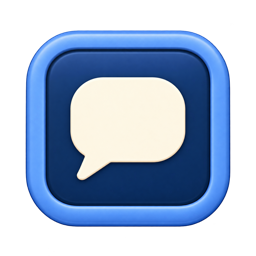
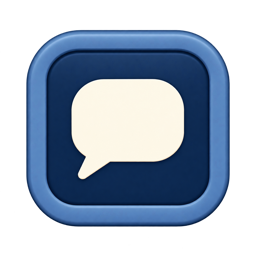
style(input): balance mode artwork and anchor pane targets
Use quieter satin mode assets, shared control spacing and a textarea height matching the reserved input slot. Position pane targets beside their control and above the actual multiline input height.

Verify input, asset, agent composer and workspace tests on macOS; inspect Flexoki Light and Dark previews. Windows and Linux runtime validation remains unavailable.

diff --git a/crates/con-app/src/input_bar.rs b/crates/con-app/src/input_bar.rs
@@ -97,7 +97,7 @@ impl InputMode {
     fn icon(self) -> &'static str {
         match self {
             Self::Smart => "input-mode-smart.png",
-            Self::Shell => "tab-terminal-refined.png",
+            Self::Shell => "input-mode-shell.png",
             Self::Agent => "input-mode-agent.png",
         }
     }
@@ -266,7 +266,7 @@ impl InputBar {
 
     fn pane_scope_summary(&self) -> (String, &'static str) {
         match self.pane_scope_mode {
-            PaneScopeMode::Broadcast => ("All panes".to_string(), "phosphor/squares-four.svg"),
+            PaneScopeMode::Broadcast => ("All panes".to_string(), "phosphor/broadcast-duotone.svg"),
             PaneScopeMode::Focused => ("Focused".to_string(), "phosphor/target.svg"),
             PaneScopeMode::Custom => {
                 let targets = self.effective_target_ids();
@@ -1233,8 +1233,8 @@ impl Render for InputBar {
         let input_value = input_state.read(cx).value().to_string();
         let input_cursor = input_state.read(cx).cursor();
         let mono_scale = mono_density_scale(theme);
-        let control_size = mono_space_px(theme, 28.0);
-        let mode_icon_size = mono_space_px(theme, 24.0);
+        let control_size = mono_space_px(theme, crate::input_chrome::CONTROL_SIZE);
+        let mode_icon_size = mono_space_px(theme, 22.0);
         let compact_icon_size = mono_space_px(theme, 14.0);
 
         // ── Mode prefix — icon-only, minimal ──
@@ -1275,7 +1275,7 @@ impl Render for InputBar {
             let scope_tint = if scope_is_expanded {
                 theme.primary
             } else {
-                theme.foreground.blend(theme.background.opacity(0.28))
+                theme.muted_foreground
             };
             Some(
                 div()
@@ -1326,7 +1326,7 @@ impl Render for InputBar {
                                     .line_height(mono_px(theme, 14.0))
                                     .font_family(theme.font_family.clone())
                                     .font_weight(FontWeight::MEDIUM)
-                                    .text_color(scope_tint)
+                                    .text_color(theme.foreground)
                                     .max_w(px(128.0 * mono_scale))
                                     .overflow_hidden()
                                     .whitespace_nowrap()
@@ -1589,6 +1589,8 @@ impl Render for InputBar {
                 div().relative().top(input_vertical_offset).child(
                     Textarea::new(&input_state)
                         .appearance(false)
+                        // Match the workspace slot instead of the editor's default minimum.
+                        .h(self.rendered_height(cx) - px(12.0 * mono_scale))
                         .font_family(input_font)
                         .text_color(if hide_native_command_text {
                             gpui::transparent_black()
@@ -1616,12 +1618,13 @@ impl Render for InputBar {
             // ── Flat container ──
             .child(
                 div()
-                    .px(px(12.0 * mono_scale))
+                    .debug_selector(|| "command-input-row".into())
+                    .px(px(crate::input_chrome::BAR_INSET * mono_scale))
                     .py(px(6.0 * mono_scale))
                     .min_h(px(44.0 * mono_scale))
                     .flex()
                     .items_center()
-                    .gap(px(9.0 * mono_scale))
+                    .gap(px(crate::input_chrome::CONTROL_GAP * mono_scale))
                     .child(mode_prefix)
                     .children(pane_row)
                     .child(div().flex_1().min_w_0().child(input_field))
@@ -1811,6 +1814,14 @@ mod tests {
                     let mode_toggle = view
                         .debug_bounds("command-mode-toggle")
                         .expect("mode toggle");
+                    let row = view.debug_bounds("command-input-row").unwrap();
+                    let leading_inset = mode_toggle.left() - row.left();
+                    let bottom_inset = row.bottom() - mode_toggle.bottom();
+                    assert!(
+                        (leading_inset - bottom_inset).abs() <= px(1.0),
+                        "{mode:?}, cached={cached}: row={row:?}, mode={mode_toggle:?}, leading={leading_inset:?}, bottom={bottom_inset:?}"
+                    );
+                    assert_eq!(mode_toggle.center().y, send.center().y);
                     match mode_row_top[cache_index] {
                         Some(top) => {
                             assert_eq!(mode_toggle.top(), top, "{mode:?}, cached={cached}")

diff --git a/crates/con-app/src/workspace/render/popups.rs b/crates/con-app/src/workspace/render/popups.rs
@@ -1,5 +1,63 @@
 use super::super::*;
 
+#[cfg(test)]
+mod tests {
+    use super::pane_scope_popup_geometry;
+    use gpui::px;
+
+    #[test]
+    fn pane_targets_follow_control_and_multiline_height() {
+        let (left, width, bottom) = pane_scope_popup_geometry(230.0, 800.0, 44.0, 1.0, 1.0);
+        assert_eq!((left, width, bottom), (px(274.0), px(320.0), px(54.0)));
+        assert_eq!(
+            pane_scope_popup_geometry(230.0, 800.0, 84.0, 1.0, 1.0).2,
+            px(94.0)
+        );
+    }
+
+    #[test]
+    fn pane_targets_fit_terminal_gutters_at_scaled_and_narrow_widths() {
+        for scale in [1.0, 1.5] {
+            for terminal_left in [0.0, 230.0] {
+                for terminal_width in [240.0, 420.0, 1100.0] {
+                    let (left, width, bottom) = pane_scope_popup_geometry(
+                        terminal_left,
+                        terminal_width,
+                        84.0 * scale,
+                        0.5,
+                        scale,
+                    );
+                    assert!(left >= px(terminal_left + 12.0 * scale));
+                    assert!(left + width <= px(terminal_left + terminal_width - 12.0 * scale));
+                    assert_eq!(bottom, px(52.0 * scale));
+                }
+            }
+        }
+    }
+}
+
+fn pane_scope_popup_geometry(
+    terminal_left: f32,
+    terminal_width: f32,
+    input_height: f32,
+    progress: f32,
+    scale: f32,
+) -> (Pixels, Pixels, Pixels) {
+    let inset = 12.0 * scale;
+    let width = (terminal_width * 0.38)
+        .clamp(320.0 * scale, 440.0 * scale)
+        .min((terminal_width - 2.0 * inset).max(0.0));
+    let anchor = (crate::input_chrome::BAR_INSET
+        + crate::input_chrome::CONTROL_SIZE
+        + crate::input_chrome::CONTROL_GAP)
+        * scale;
+    let left = (terminal_left + anchor)
+        .min(terminal_left + terminal_width - width - inset)
+        .max(terminal_left + inset);
+    let bottom = input_height * progress.clamp(0.0, 1.0) + 10.0 * scale;
+    (px(left), px(width), px(bottom))
+}
+
 impl ConWorkspace {
     pub(super) fn render_skill_popup(
         &self,
@@ -206,11 +264,13 @@ impl ConWorkspace {
                     .enumerate()
                     .map(|(ix, pane)| (pane.id, ix))
                     .collect();
-                let popup_available_width = (terminal_content_width - 48.0).max(300.0);
-                let popup_width = px((terminal_content_width * 0.38)
-                    .clamp(320.0, 440.0)
-                    .min(popup_available_width));
-                let popup_bottom = px(62.0 + (43.0 * input_bar_progress.max(0.01)));
+                let (popup_left, popup_width, popup_bottom) = pane_scope_popup_geometry(
+                    terminal_content_left,
+                    terminal_content_width,
+                    self.input_bar.read(cx).rendered_height(cx).as_f32(),
+                    input_bar_progress,
+                    crate::ui_scale::mono_density_scale(cx.theme()),
+                );
                 let preview_content = self.render_scope_node(
                     &layout,
                     &pane_map,
@@ -378,7 +438,7 @@ impl ConWorkspace {
                             .child(
                                 preset_segment(
                                     "scope-all",
-                                    "phosphor/squares-four.svg",
+                                    "phosphor/broadcast-duotone.svg",
                                     "All panes",
                                     is_broadcast,
                                 )
@@ -435,7 +495,7 @@ impl ConWorkspace {
                     div()
                         .debug_selector(|| "pane-scope-popup".into())
                         .absolute()
-                        .left(px(terminal_content_left + 20.0))
+                        .left(popup_left)
                         .bottom(popup_bottom)
                         .w(popup_width)
                         .rounded(px(12.0))

diff --git a/crates/con-app/src/input_chrome.rs b/crates/con-app/src/input_chrome.rs
@@ -4,6 +4,10 @@ use gpui_component::{Disableable, Theme};
 
 use crate::ui_scale::mono_space_px;
 
+pub(crate) const BAR_INSET: f32 = 8.0;
+pub(crate) const CONTROL_SIZE: f32 = 28.0;
+pub(crate) const CONTROL_GAP: f32 = 8.0;
+
 /// The bottom bar and agent composer share one submit affordance.
 pub(crate) fn send_button(id: &'static str, enabled: bool, theme: &Theme, cx: &App) -> Button {
     let fill = if enabled {
@@ -11,7 +15,7 @@ pub(crate) fn send_button(id: &'static str, enabled: bool, theme: &Theme, cx: &A
     } else {
         theme.foreground.opacity(0.055)
     };
-    let size = mono_space_px(theme, 28.0);
+    let size = mono_space_px(theme, CONTROL_SIZE);
     Button::new(id)
         .custom(
             ButtonCustomVariant::new(cx)

diff --git a/crates/con-app/src/assets.rs b/crates/con-app/src/assets.rs
@@ -184,6 +184,7 @@ mod tests {
             "tab-reader.png",
             "input-mode-smart.png",
             "input-mode-agent.png",
+            "input-mode-shell.png",
         ] {
             let bytes = png_bytes(path).expect("tab identity must ship in the binary");
             let image = image::load_from_memory(&bytes).unwrap().into_rgba8();

diff --git a/assets/input-mode-icons.md b/assets/input-mode-icons.md
@@ -1,17 +1,36 @@
 # Input Mode Icons
 
+## Agent Satin Refinement (2026-10-13)
+
+```text
+Refine this Agent mode icon specifically for a bottom input bar at22points. Preserve exact front-facing rounded-square silhouette, corner radius, thin frame, ivory speech bubble with tail and optical scale. Make the blue frame quieter: replace vivid electric cornflower highlights with restrained muted slate-blue, lower frame brightness about25%, deep navy inner face, warm offwhite bubble retains strong contrast. Satin matte planes with only a soft upper edge highlight; no gloss streaks, no neon, no purple, no extra details, no stand, no external shadow or glow. Do not make any interior translucent: object stays fully opaque and surrounding square canvas genuinely transparent, clean alpha edges. Same canvas coverage and centred positioning as reference. One small elegant mode indicator, not a call-to-action or toy.
+```
+
+## Smart Satin Refinement (2026-10-13)
+
+```text
+Refine this Smart mode icon specifically for a bottom input bar at22points. Preserve exact front-facing rounded-square geometry, corner radius, frame thickness, diagonal ivory wand and single large four-point sparkle, same optical balance and canvas coverage. Quiet the frame: replace bright golden yellow and shiny highlights with warm muted ochre/bronze, lower rim brightness by about25%, dark walnut inset face, retain clear warm offwhite symbols. Refined satin matte rather than reward/game icon gloss. Minimal soft upper edge highlight, broad clean opaque planes; no external glow, shadow, stand or new details. Do not lower opacity of the object: the entire interior remains opaque, only surrounding canvas truly transparent. It must read as a calm small mode indicator rather than a primary action. One centred icon.
+```
+
+## Shell Satin Refinement (2026-10-13)
+
+```text
+Refine this approved framed terminal icon specifically for the bottom input mode button at22points. Preserve exact silhouette, proportions, thin rounded frame, ivory >_ symbol and front-facing geometry. Make it quieter: reduce saturated aqua brightness and specular highlights by roughly25%, replace electric cyan with refined muted petrol-teal, keep a medium teal rim clearly visible on dark UI, dark petrol inner screen and warm offwhite prompt. Satin matte planes, only a soft upper edge highlight. No new decorative details, no stand, no perspective, no external glow or cast shadow. Do not dim by making the interior translucent: all object interior remains fully opaque, only the surrounding canvas is truly transparent. Crisp clean alpha, strong prompt contrast. One centred icon, same canvas coverage as reference. The goal is a small elegant mode indicator, not a bright call-to-action.
+```
+
 These assets identify the three input modes. They are not submit, stop or
 approval controls; those remain theme-colored Phosphor SVGs.
 
 - Smart: `input-mode-smart.png`, amber wand and sparkle.
-- Shell: `tab-terminal-refined.png`, the approved teal terminal identity.
+- Shell: `input-mode-shell.png`, a quieter petrol-teal terminal identity.
 - Agent: `input-mode-agent.png`, blue conversation bubble.
 
-Generated with the built-in image tool on 2026-10-13. Both new assets use
+Generated with the built-in image tool on 2026-10-13. The initial assets use
 `tab-terminal-refined.png` as the edit/style reference, transparent output,
 256-pixel packaged sources and the shared physical-size preview cache.
-The mode button is 28 points with a 24-point image canvas; transparent inset
-keeps the visible object around 20 points. Do not add a second resting frame.
+The mode button is 28 points with a 22-point image canvas. The current revision
+uses muted satin materials with fully opaque interiors and transparent outer
+insets. Do not add a second resting frame or runtime opacity dimming.
 
 ## Smart Prompt
 
@@ -27,5 +46,5 @@ Edit the supplied teal terminal icon as a style reference for a sibling tiny des
 
 ## Shell Prompt
 
-Reuse the exact approved terminal prompt in `tab-icons.md` and its resulting
-asset. A separate generation would introduce unnecessary variation.
+The initial reference is the approved terminal prompt in `tab-icons.md`.
+The input-specific refinement above leaves the accepted tab asset unchanged.

diff --git a/docs/design/input-composers.md b/docs/design/input-composers.md
@@ -4,7 +4,7 @@ The bottom input bar is compact terminal chrome; the agent composer is a
 multiline writing surface. They share control dimensions and submit styling,
 not a second layer of decorative cards.
 
-- Mode identity uses a 24-point cached transparent image inside a 28-point
+- Mode identity uses a 22-point cached transparent image inside a 28-point
   button. Its authored frame supplies the resting shape; only hover and press
   add a neutral control fill. All modes keep the same slot and line box.
 - A shared GPUI Component button owns submit appearance in both locations:
@@ -12,6 +12,8 @@ not a second layer of decorative cards.
   quiet neutral fill when empty. Never tint the action with the mode color.
 - The bottom bar stays flat. Its workspace owns transparency; do not add a
   second background or alter native terminal presentation during polish.
+  Its 8-point leading inset matches the vertical control inset in a single-line
+  row; all controls share an 8-point gap.
 - The agent composer uses a single borderless, shadowless 12-point rounded
   surface with equal outer gutters. Its text column can shrink to fit narrow
   panels; the submit control remains stable at the bottom of multiline drafts.
@@ -28,6 +30,10 @@ The scope popup belongs to command composition, not terminal output. Use UI
 type for its labels and monospace only for keycaps. A compact header shows the
 selected count; A and F belong beside their presets, while 1-9 identifies
 individual pane toggles. The map and preset row share the same outer insets.
+The popup aligns with the target control and sits 10 points above the actual
+input height, including multiline drafts. Clamp it inside the terminal gutters
+at narrow widths. All dimensions follow UI density. The broadcast glyph denotes
+all panes; labels stay neutral rather than tinting the whole control.
 
 Pane tiles use restrained selected fills with an explicit check mark. A target
 glyph identifies the actual focused pane independently of broadcast selection;

diff --git a/postmortem/2026-10-13-input-bar-slot-alignment.md b/postmortem/2026-10-13-input-bar-slot-alignment.md
@@ -1,0 +1,34 @@
+# Input Bar Slot Alignment
+
+## What Happened
+
+During mode-icon polish, the bottom icon appeared to have unequal leading and
+bottom insets. The workspace reserved a 44-point single-line input slot, but
+the rendered row was 48 points tall in the GPUI layout test.
+
+## Root Cause
+
+The textarea retained its component-derived intrinsic height. A minimum height
+on the row did not constrain it to the workspace's reserved slot. Adjusting
+only the icon padding would have hidden the mismatch rather than fixing it.
+
+## Fix
+
+Give the textarea an explicit height from the same rendered-height calculation
+used by the workspace, excluding row padding. Mode and submit controls retain
+their shared 28-point size. The leading inset is 8 points, matching the vertical
+inset in a single-line row. Anchor the target picker to the control and actual
+input height rather than a separate fixed popup offset.
+
+## Verification
+
+The cached and uncached input-bar test checks equal insets and aligned controls
+across all modes, one/two panes and three viewport widths. Picker geometry tests
+cover narrow terminals, scaling and multiline heights. Native macOS preview
+checks covered Flexoki Light/Dark and a three-line draft without submission.
+Windows/Linux runtime checks were unavailable; no terminal backend code changed.
+
+## Lesson
+
+Use one height calculation for reserved slots and their component content.
+Test rendered bounds, not just size constants, when polishing compact controls.

diff --git a/CHANGELOG.md b/CHANGELOG.md
@@ -18,6 +18,8 @@ con is still pre-release, so entries may group related beta work while the produ
   drafts and fits narrow panels.
 - The pane target picker is more compact, with clearer selected counts,
   keyboard hints, selection checks and a separate focused-pane indicator.
+  It sits closer to its control and follows multiline input height. Quieter
+  mode artwork and balanced insets keep the bottom bar unobtrusive.
 
 ## `v0.1.0-beta.129` - 2026-10-13
 
